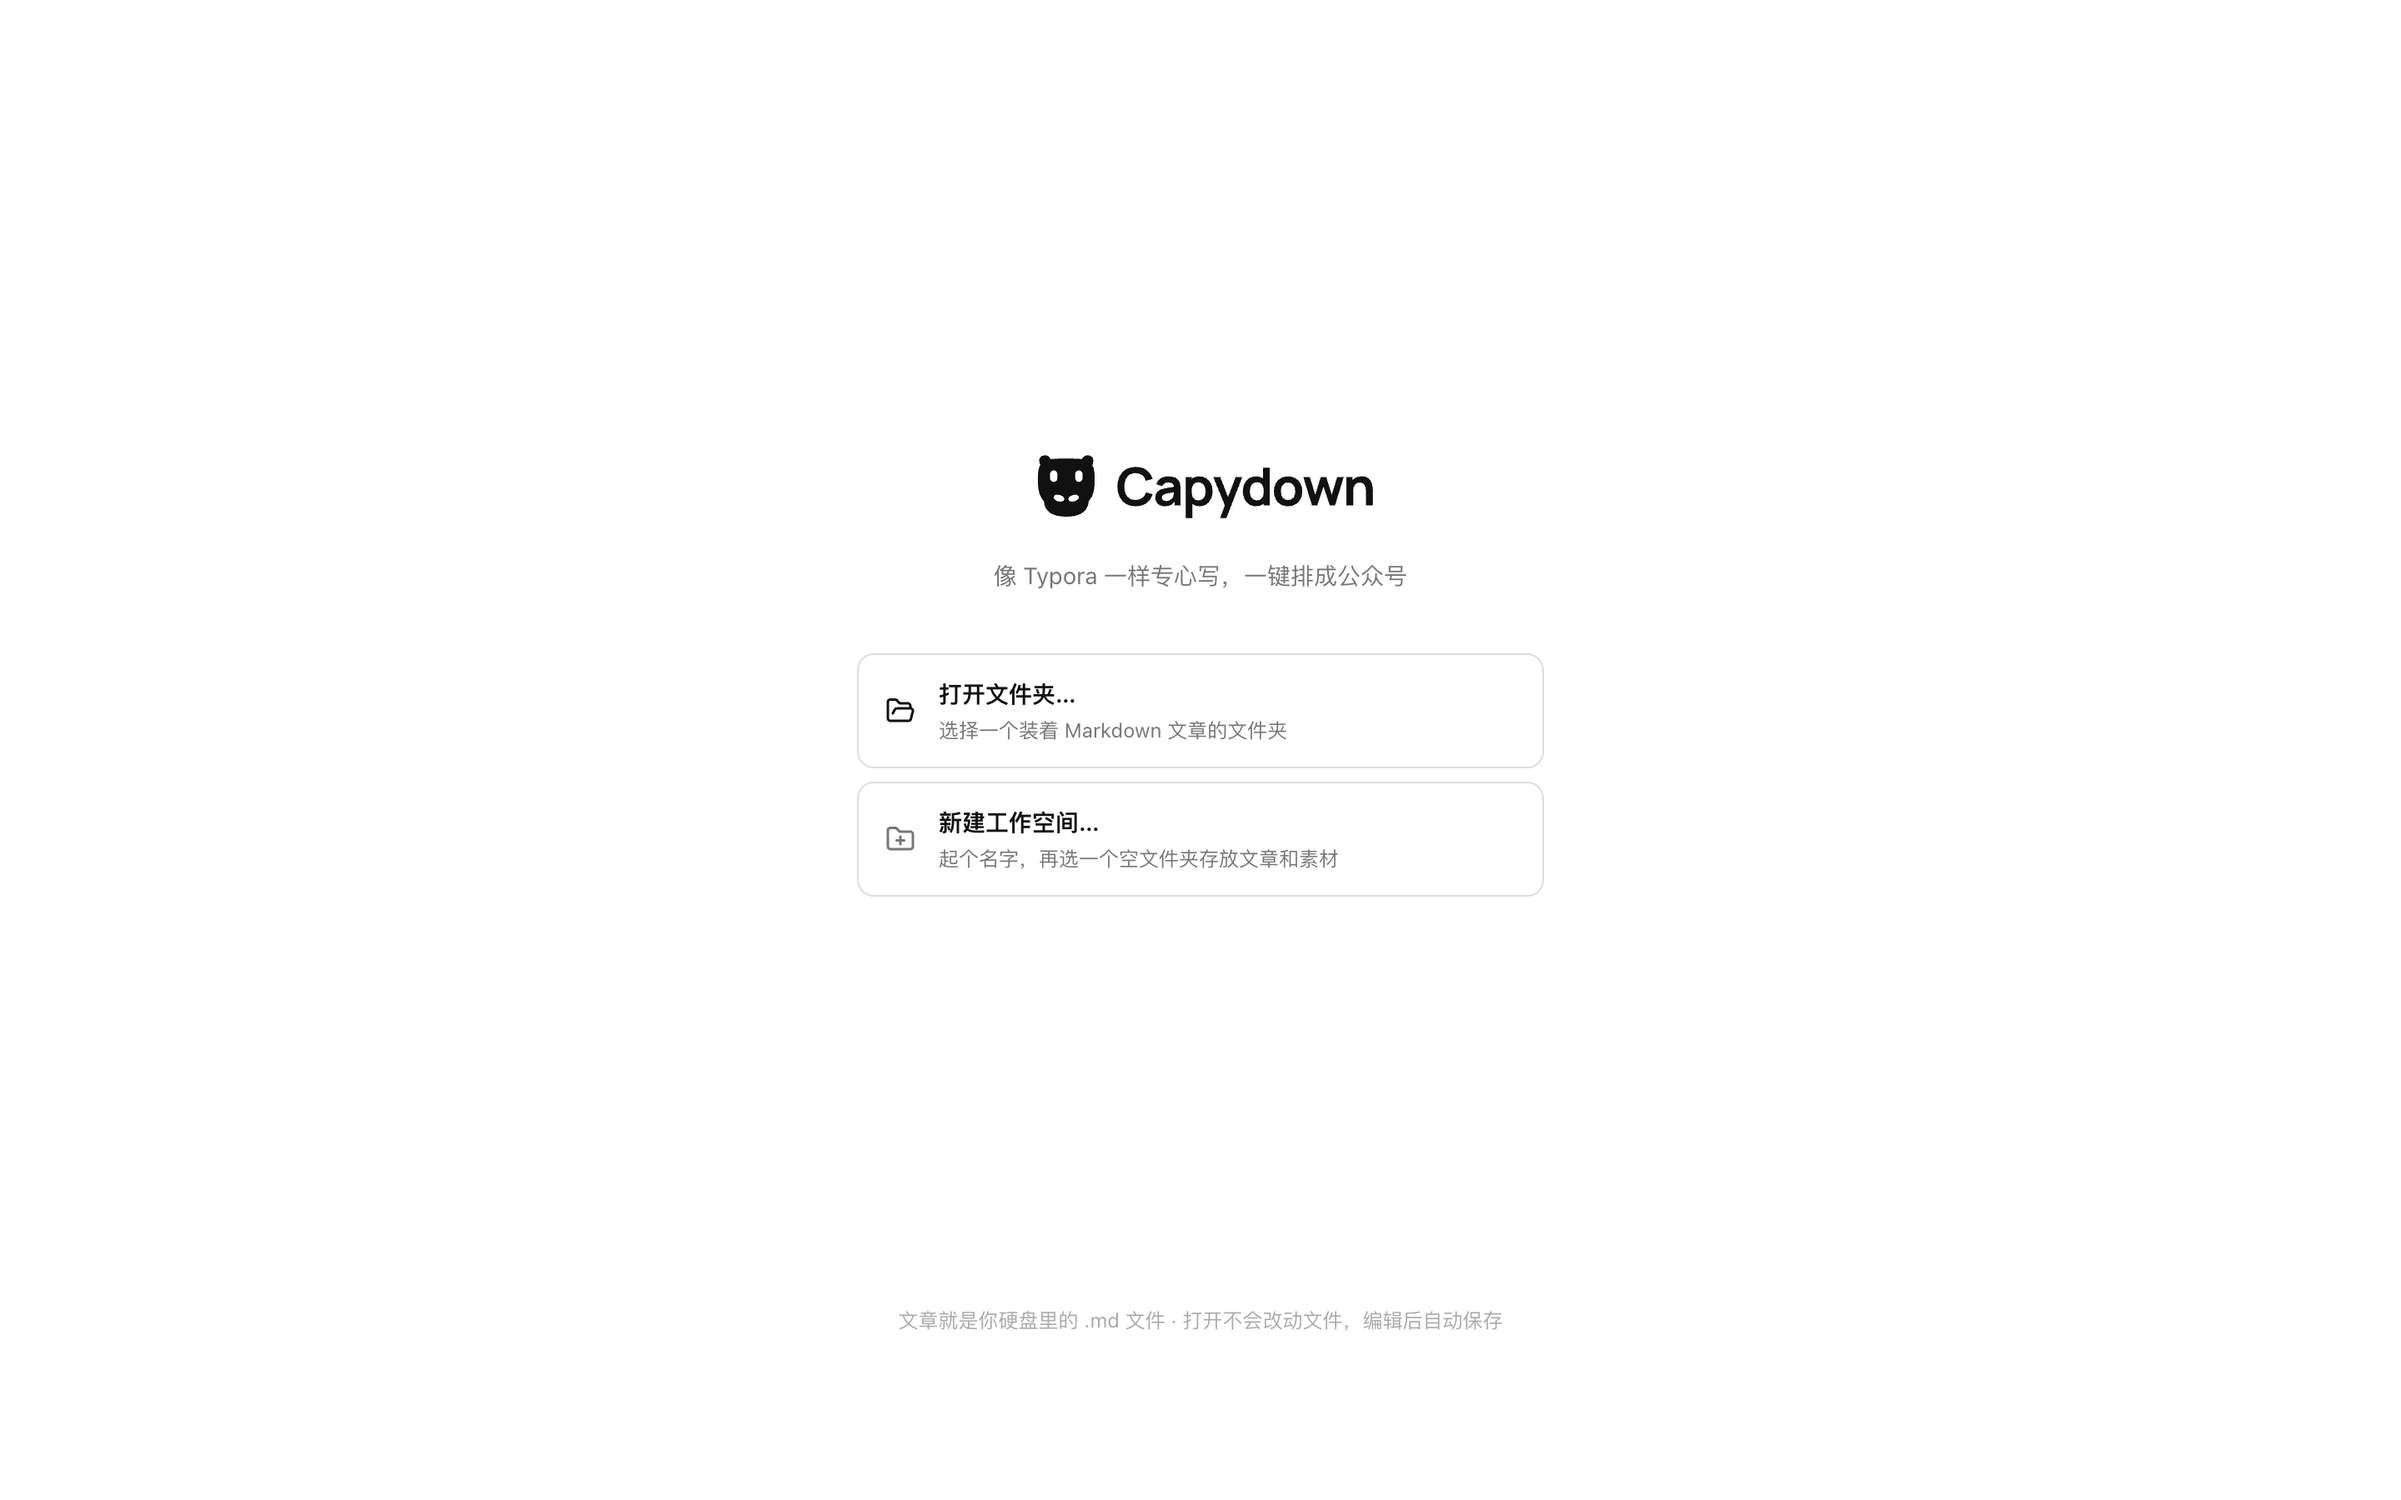
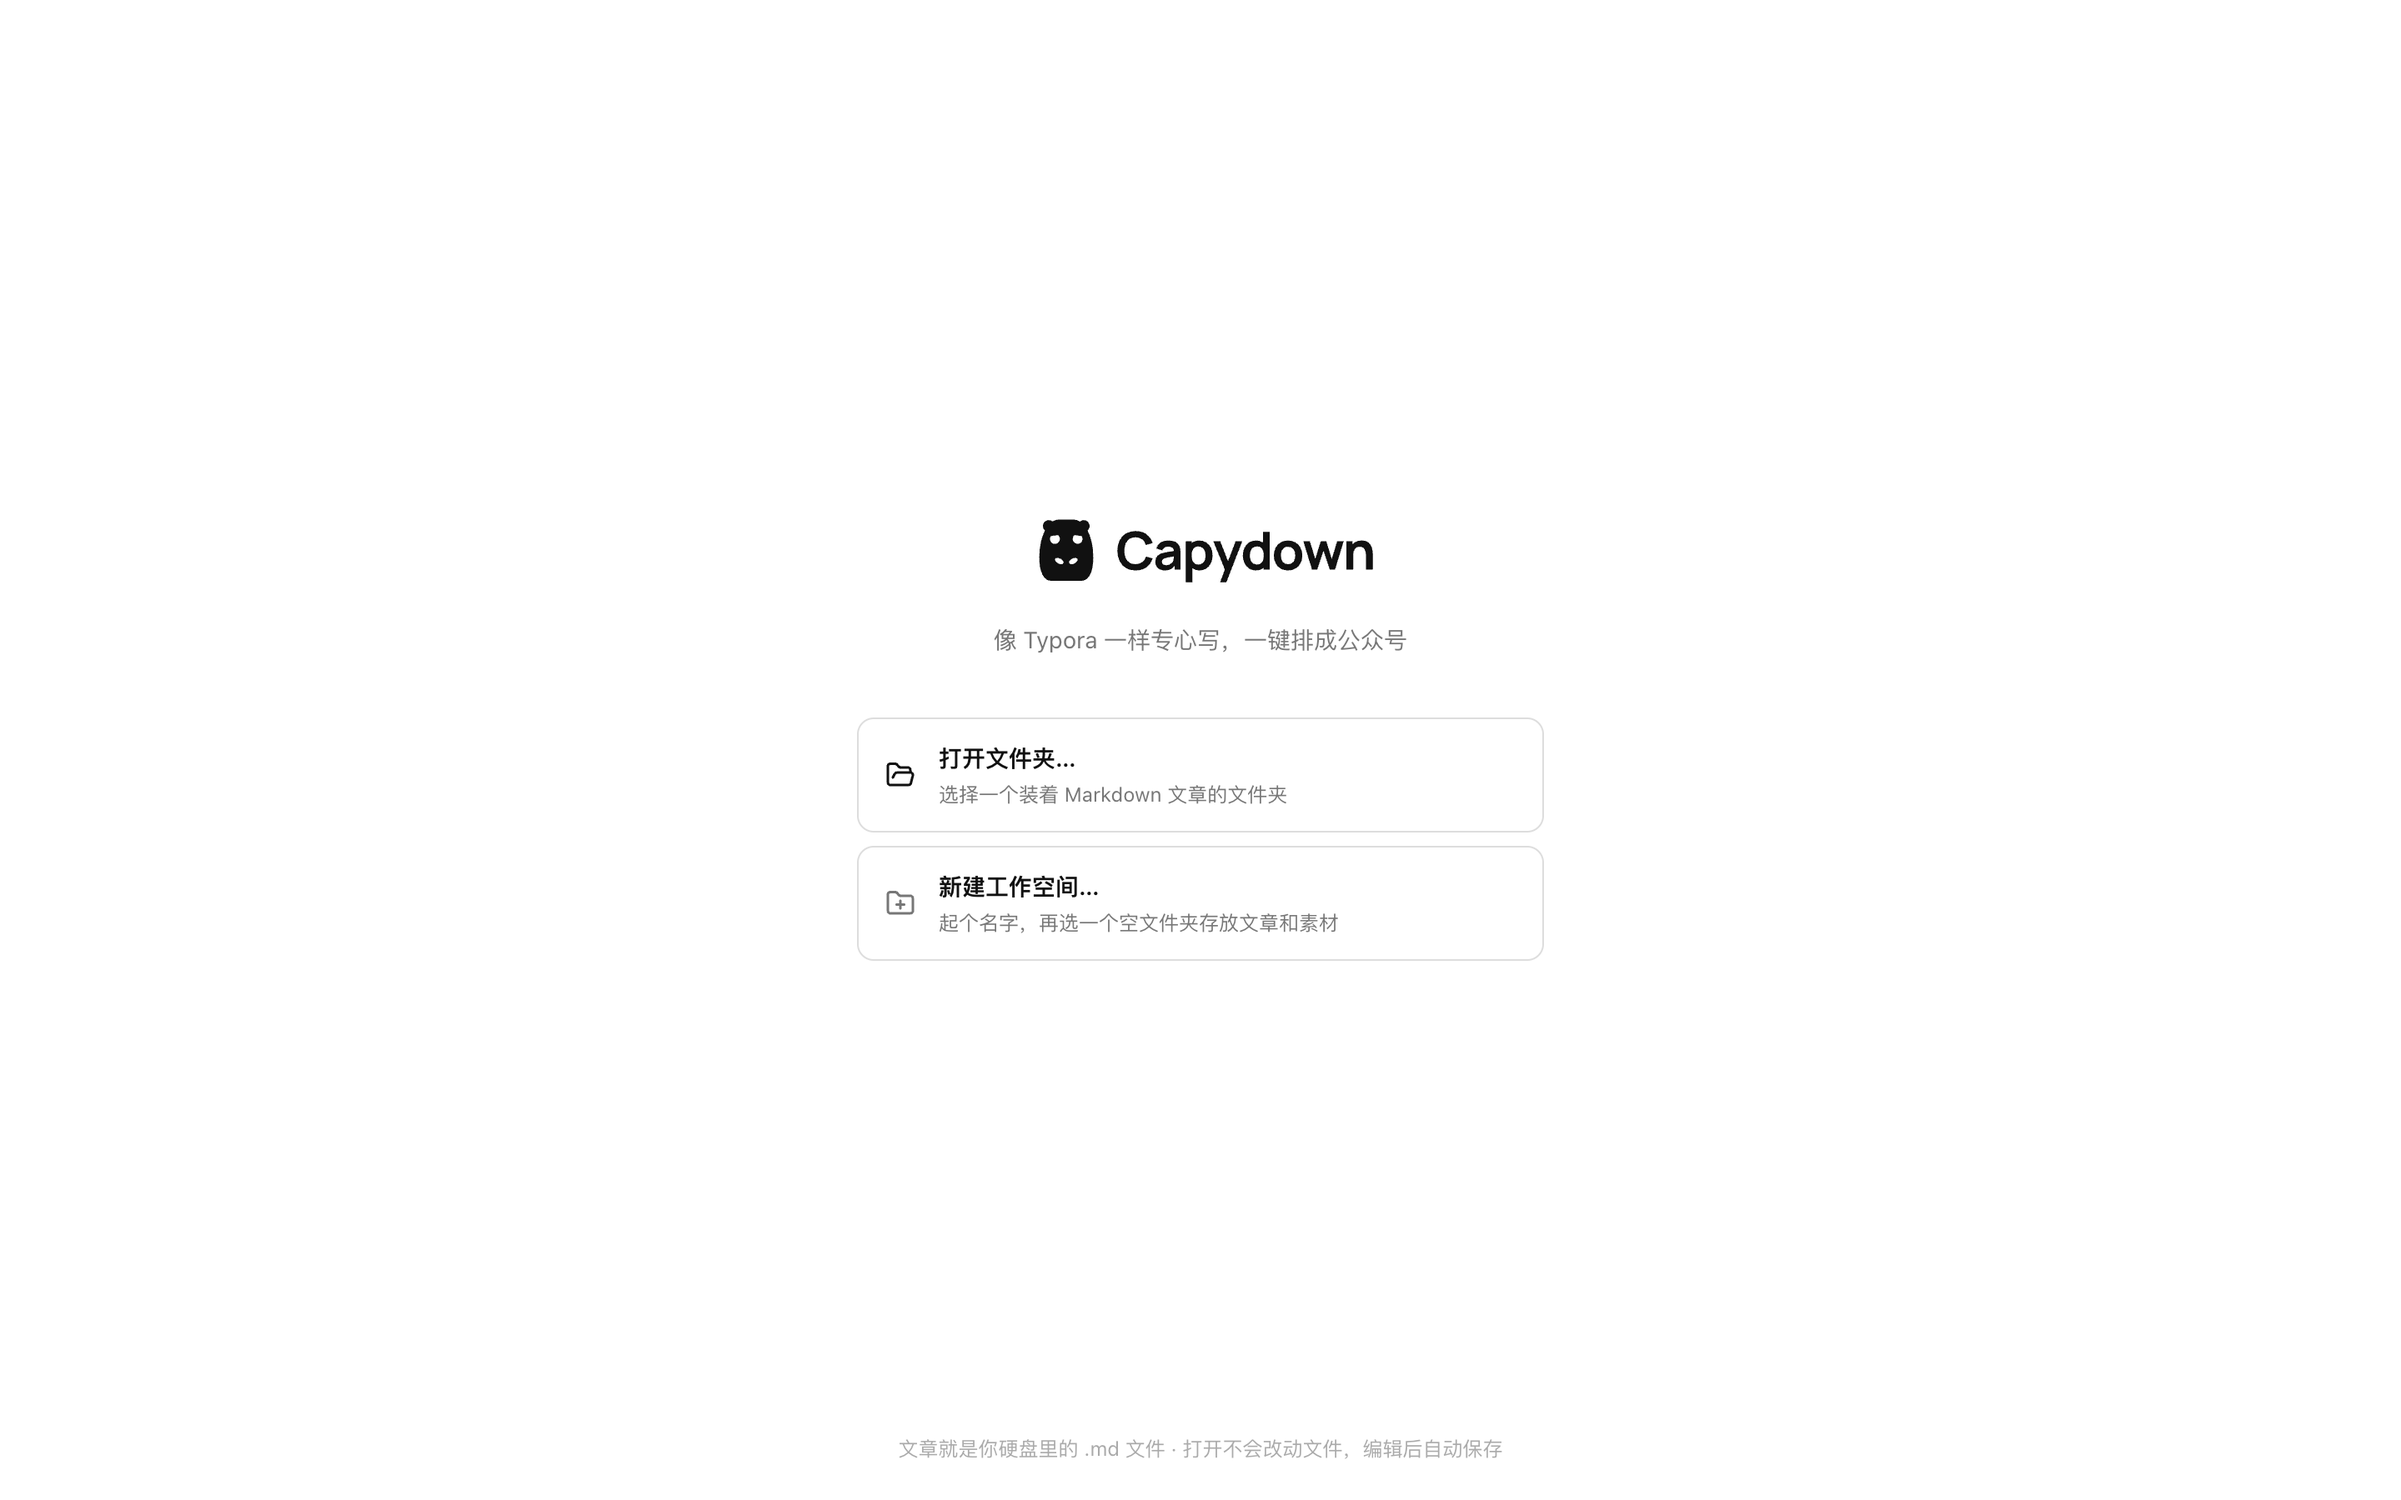
docs: retake welcome and splash screenshots with the new capybara glyph
Shot through Playwright _electron at 1440 × 900 @2x; the website WebP copies are refreshed.

diff --git a/website/style.css b/website/style.css
@@ -89,7 +89,7 @@ h1, h2, h3 { margin: 0; font-weight: 700; }
 .hero-cta { display: flex; justify-content: center; gap: 12px; margin-top: 38px; flex-wrap: wrap; }
 .hero-note { margin-top: 18px; font-size: 13px; color: var(--faint); letter-spacing: 0.02em; }
 .hero-note span + span::before { content: " · "; }
-/* the app window, with the capybara (yuzu on its head) peeking up from behind its top edge */
+/* the app window, with the capybara (a pup lying on its head) peeking up from behind its top edge */
 .hero-stage { position: relative; margin-top: 96px; }
 .hero-stage .peek { position: absolute; right: 7%; bottom: 100%; width: 220px; height: auto; margin-bottom: -64px; z-index: 0; pointer-events: none; }
 .hero-shot { position: relative; z-index: 1; }
